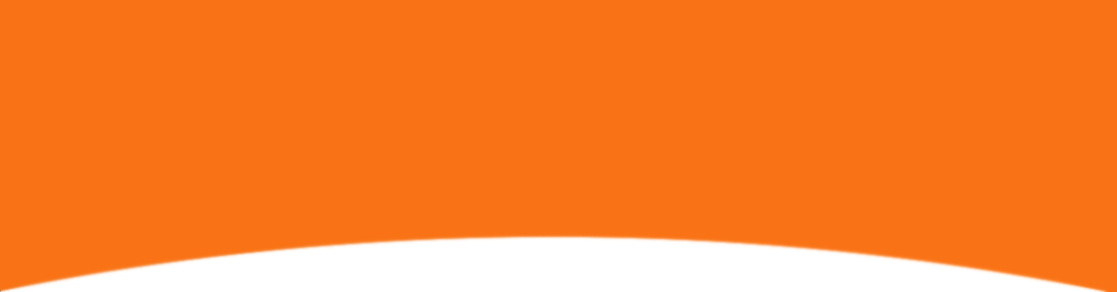
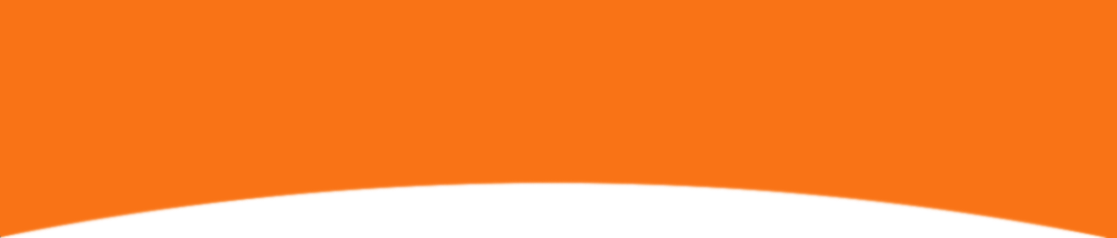
Reduce height

Changed region(s): [[0.0304, 0.7647, 1.0, 1.0], [0.0, 0.9706, 0.0304, 1.0]]

diff --git a/app/page.tsx b/app/page.tsx
@@ -9,7 +9,7 @@ import UpcomingMatch from "./UpcomingMatch";
 
 const Home = () => {
   return (
-    <Grid rows="113px 1fr 65px" className="h-dvh">
+    <Grid rows="100px 1fr 65px" className="h-dvh">
       <div className="home-bg flex bg-transparent items-center justify-between px-4 pb-2">
         <Image src="/logo.png" width={120} height={60} alt="logo" />
         <div className="flex border dark:border-white items-center justify-between gap-1 rounded-3xl text-xl text-white py-1 px-2">
